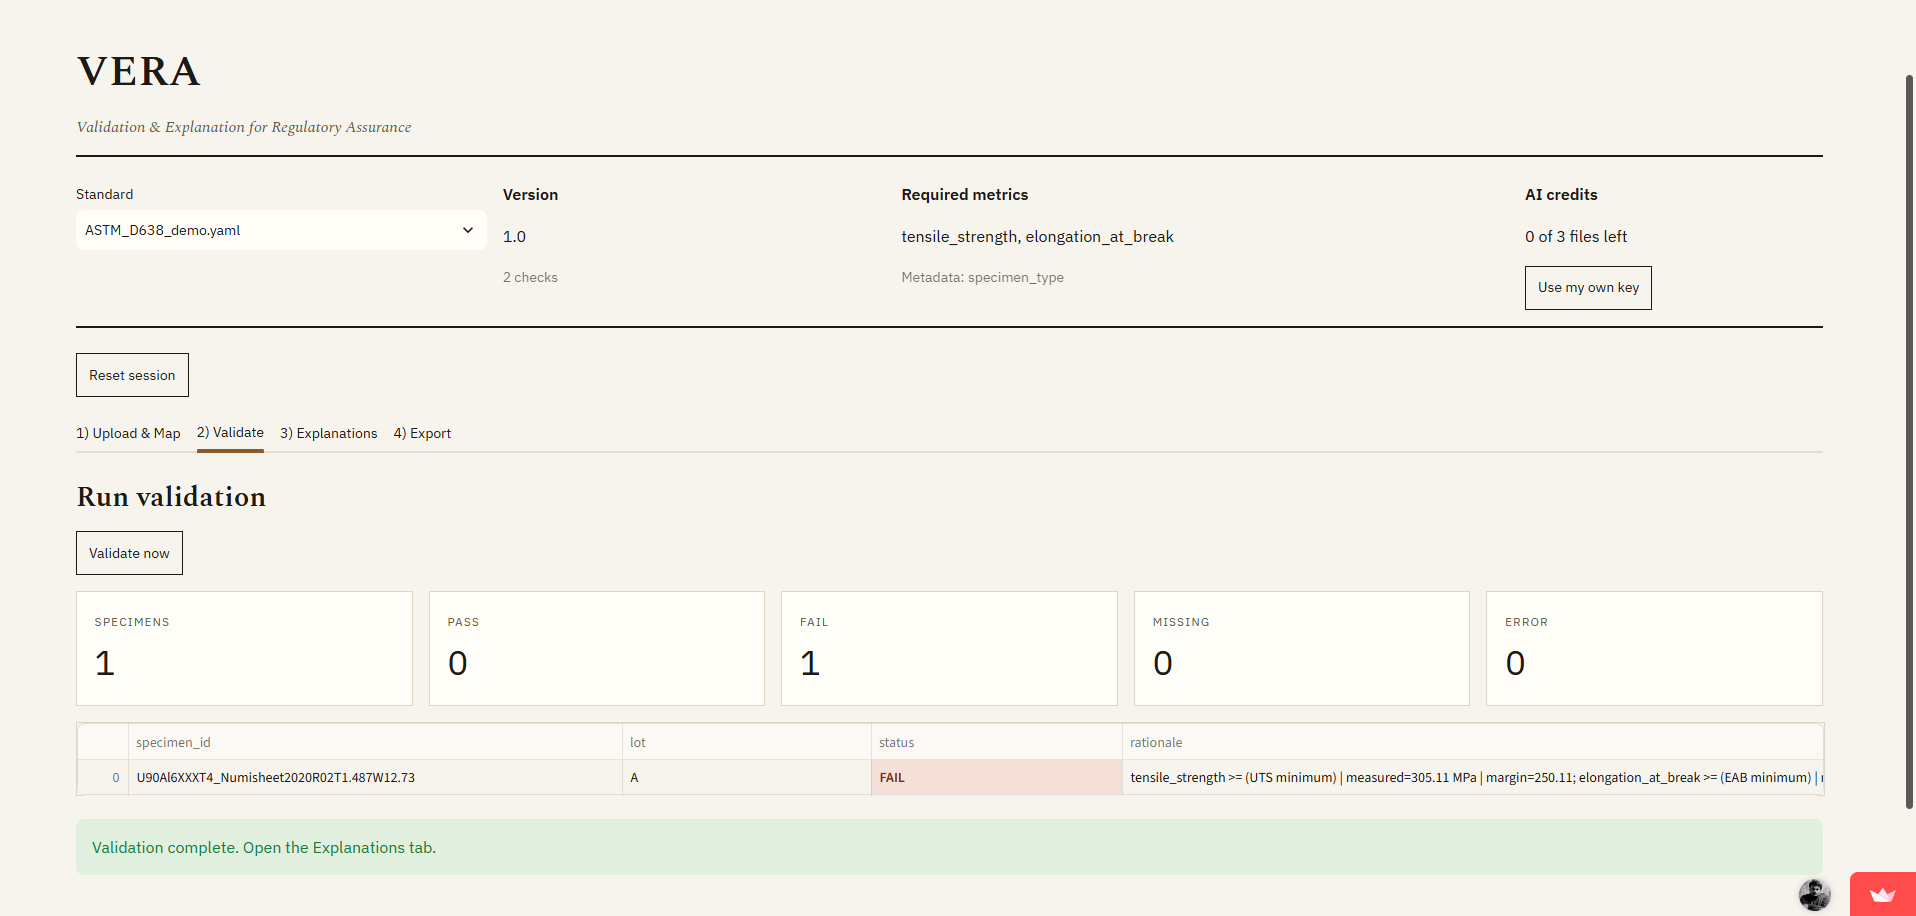
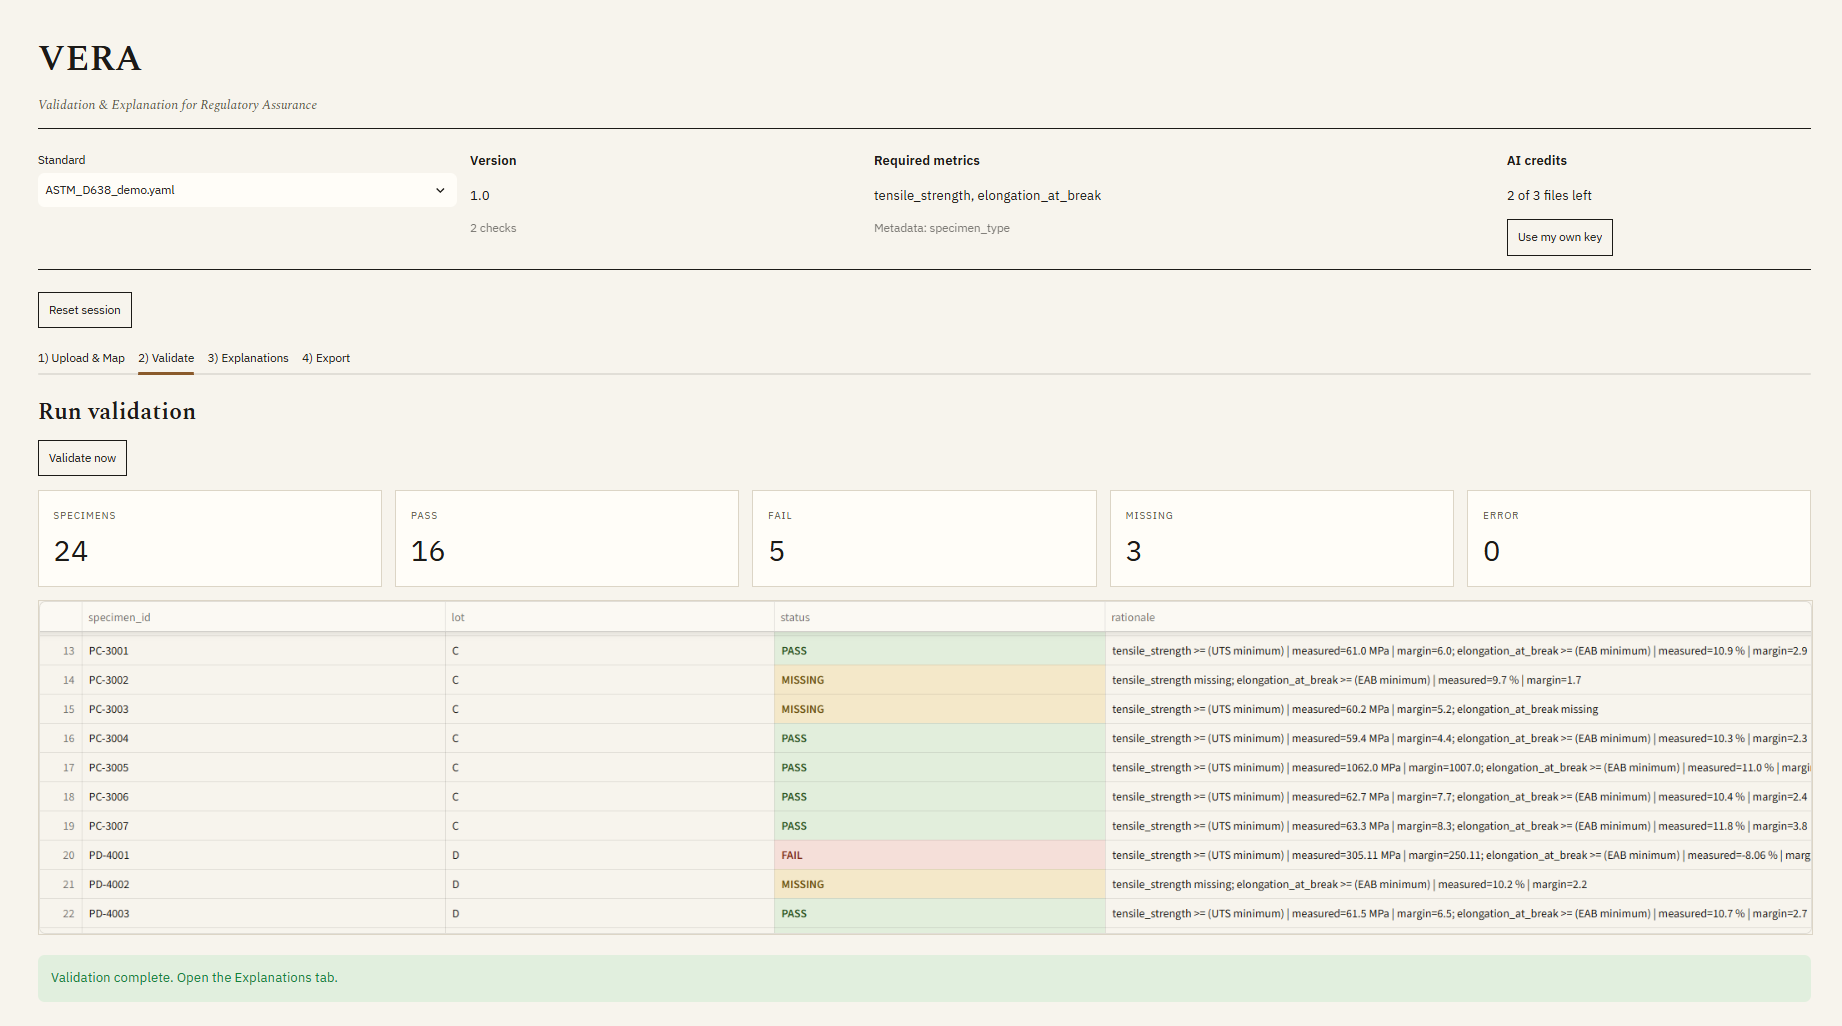
Add screenshot, realistic demo dataset, and rewritten README_V2

diff --git a/README.md b/README.md
@@ -4,12 +4,12 @@
 
 > Hosted on Streamlit Community Cloud, which sleeps after inactivity. The first
 > load may take a moment to wake, and if you see a loading error, refresh the
-> page — it's a cached-asset issue on Streamlit's side, not the app.
+> page - it's a cached-asset issue on Streamlit's side, not the app.
 
 VERA checks materials test results against a compliance standard and explains
 what failed. Upload a lab CSV, confirm the column mapping, and get a
 pass/fail verdict per specimen with the measured value, the threshold, and the
-margin — plus a plain-English explanation and a one-page PDF report.
+margin - plus a plain-English explanation and a one-page PDF report.
 
 Standards are defined as YAML, so adding one takes a file rather than a code
 change. You can also describe thresholds in plain English and have VERA compile
@@ -55,7 +55,7 @@ python -m venv venv
 pip install -r requirements.txt
 ```
 
-Activate the environment — `venv\Scripts\activate` on Windows, `source venv/bin/activate` on macOS or Linux.
+Activate the environment - `venv\Scripts\activate` on Windows, `source venv/bin/activate` on macOS or Linux.
 
 Set an Anthropic API key for the AI-assisted steps:
 
